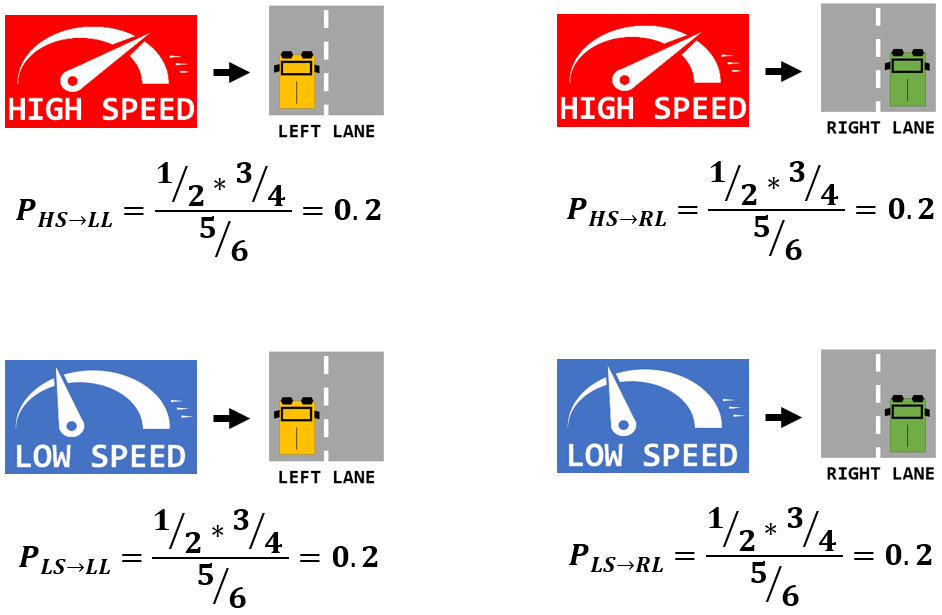
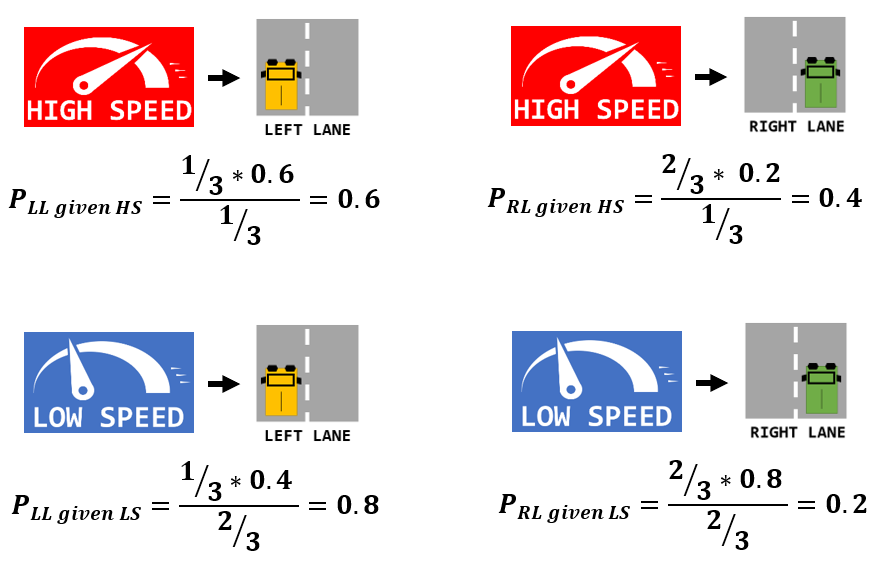
docs - start describing the problem

diff --git a/README.md b/README.md
@@ -64,7 +64,7 @@ To keep the problem as simple as possible:
 - Time steps are discretized.
 - Lane transitions are ignored: either you are on `left lane` or you are on `right lane`
 
-A word about the Markov Property:
+A word about the **Markov Property**:
 - We just said that it is useful to know the present `lane` (at time `t`) to infer the future `lane` (at time `t+1`)
 - What about the previous `lane` at `t-1`? It probably also hold relevant information?
 - Here is a strong assumption about inferring in this stochastic process:
@@ -86,7 +86,7 @@ A word about the Markov Property:
 # Questions:
 - [Q1](#q1) - How to **derive the probability models**?
 - [Q2](#q2) - If you receive a **single observation**, what are the probability for the car to be in each lane?
-- [Q3](#q3) - What is the **most likely lane sequence** if the **sequence of observations** is [`high speed`, `high speed`, `low speed`, `high speed`]?
+- [Q3](#q3) - What is the **most likely `lane` sequence** if the **sequence of observations** is [`high speed`, `high speed`, `low speed`, `high speed`]?
 - [Q4](#q4) - What if you are **not directly given the probability models**?
 
 # Answers
@@ -102,10 +102,10 @@ The idea is to **approximate the model parameters by counting the occurrences**.
 ### Transition probability
 
 **Counting the number** of transitions gives a likelihoods we can used for our **transition probability** model.
-- For instance, we made 15 transitions starting from `right lane` and among them 2 ended in `left lane`.
-	- Hence the P[`right lane` -> `left lane`] = 
-- Since probabilities must sum to one (normalization), or just by counting for the other case (`right lane` is followed 10 times by a `right lane`)
-	- P[`right lane` -> `right lane`] = 
+- For instance, among the `15` transitions starting from `right lane`, `3` ended in `left lane`.
+	- Hence P[`right lane` -> `left lane`] = `0.2`
+- Since probabilities must sum to one (normalization), or just by counting for the other case (`right lane` is followed `12` times by a `right lane`)
+	- Hence P[`right lane` -> `right lane`] = `0.8`
 
 | ![Derivation of the transition probability model](docs/deriving_transition_model.PNG "Derivation of the transition probability model")  | 
 |:--:| 
@@ -123,20 +123,20 @@ Counting can also be used to determine the **emission probability** model.
 
 ## Prior probability
 
-At any time `t`, what is your guess on the distribution of the hidden state if no information is given?
-- Nothing about previous state and nothing about the observation)
+At any time `t`, what is your guess on the **distribution of the hidden state if no observation is given**?
+- Two options are available:
+	- Either you use the transition model (1) and the fact that probabilities sum to `1` (2):
+		- (1) P[`left lane`, `t`] = P[`left lane` -> `left lane`] `*` P[`left lane`, `t-1`] + P[`right lane` -> `left lane`] `*` P[`right lane`, `t-1`]
+		- (2) P[`right lane`, `t`] = `1` - P[`left lane`, `t`]
+	- Either you simply **count occurrences** in the supplied data:
+		- P[`left lane`, `t`] = `1/3`
+		- P[`right lane`, `t`] = `2/3`
 
-Two options are available:
-- Either you count occurrences
-- Or you use the transition model and the fact that probabilities sum to `1`:
-	- ```p[`left lane`, t] = 0.8 * p[`left lane`, t-1] + 0.2 * p[`right lane`, t-1]```
-	- ```p[`right lane`, t] = 1 - p[`left lane`, t]```
-	
 ### Summary
 
-| ![Hidden Markov Model with the `prior probability` model (up), `transition probability` model (middle), and the `transition probability` model (below)](docs/hmm.PNG "Hidden Markov Model with the `prior probability` model (up), `transition probability` model (middle), and the `transition probability` model (below)")  | 
+| ![Hidden Markov Model with the `prior probability` model (up), `transition probability` model (middle), and the `emission probability` model (below)](docs/hmm.PNG "Hidden Markov Model with the `prior probability` model (up), `transition probability` model (middle), and the `emission probability` model (below)")  | 
 |:--:| 
-| *Hidden Markov Model with the `prior probability` model (up), `transition probability` model (middle), and the `transition probability` model (below)* |
+| *Hidden Markov Model with the `prior probability` model (up), `transition probability` model (middle), and the `emission probability` model (below)* |
 
 ## Q2 - If you receive a single observation, what are the probability for the car to be in each lane?
 
@@ -150,8 +150,10 @@ Before any observation we know that `right lane` appears `2/3` of the time and `
 ### Likelihood
 
 Based on supplied data, we found that on the left lane it is more likely to drive fast. And slow on the right lane.
-- This led to `emission probability`, also understood as `likelihood`: **given a state**, what is the probability for each observation.
-- In the `posterior`, it is the **opposite** that apply: **given an observation**, what is the probability for each state?
+- This led to `emission probability`, also understood as `likelihood`:
+	- **given a state**, what is the probability for each observation.
+- In the `posterior`, it is the **opposite** that apply:
+	- **given an observation**, what is the probability for each state?
 
 ### Marginal
 The Bayes Rule states that `Posterior` = `Normalized (prior * likelihood)`
@@ -161,11 +163,11 @@ The Bayes Rule states that `Posterior` = `Normalized (prior * likelihood)`
 	- P(`high speed`) = P(`high speed` given `left lane`) `*` P(`left lane`) + P(`high speed` given `right lane`) `*` P(`right lane`)
 	- P(`low speed`) = P(`low speed` given `left lane`) `*` P(`left lane`) + P(`low speed` given `right lane`) `*` P(`right lane`)
 - Eventually:
-	- P(`high speed`) = 
-	- P(`low speed`) = 
+	- P(`high speed`) = `1/3`
+	- P(`low speed`) = `2/3`
 
 ### Bayes Rule
-Let's use Bayesian Statistics to recap:
+- Let's use Bayesian Statistics to recap:
 	- P(`lane` given `speed`) = P(`lane`) `*` P(`speed` given `lane`) / P(`speed`)
 	- `Posterior` = `Prior` `*` `Likelihood` / `Marginal`
 - For instance
@@ -176,14 +178,20 @@ Priors:
 - P(`left lane`) = `1/3`
 
 Marginals:
-- P(`high speed`) = `2/3`
-- P(`low speed`) = `1/3`
+- P(`high speed`) = `1/3`
+- P(`low speed`) = `2/3`
 
 Likelihoods:
-- P(`high speed` given `left lane`) = `2/3`
-- P(`high speed` given `right lane`) = `2/3`
-- P(`low speed` given `left lane`) = `2/3`
-- P(`low speed` given `right lane`) = `2/3`
+- P(`high speed` given `left lane`) = `0.6`
+- P(`low speed` given `left lane`) = `0.4`
+- P(`high speed` given `right lane`) = `0.2`
+- P(`low speed` given `right lane`) = `0.8`
+
+Posteriors:
+- P(`left lane` given `high speed`) = `1/3` `*` `0.6` / `1/3` = `0.6`
+- P(`left lane` given `low speed`) = `1/3` `*` `0.4` / `2/3` = `0.2`
+- P(`right lane` given `high speed`) = `2/3` `*` `0.2` / `1/3` = `0.4`
+- P(`right lane` given `low speed`) = `2/3` `*` `0.8` / `2/3` = `0.8`
 
 ### Summary
 
@@ -199,21 +207,21 @@ It is close to our intuition.
 |:--:| 
 | *Derivation of the posterior probabilities for a single observation* |
 
-## Q3 - What is the most likely lane sequence if the sequence of observations is [`high speed`, `high speed`, `low speed`, `high speed`]?
+## Q3 - What is the most likely `lane` sequence if the sequence of observations is [`high speed`, `high speed`, `low speed`, `high speed`]?
 
-The previous observation had `size=1`
-- For each observation we have computed the two posterior probabilities and **select the maximum one**.
+The previous sequence of `observation` had `size=1`
+- For each observation we have computed the two posterior probabilities and then **select the maximum one**.
 - A **similar approach** can be used for larger sequences of observation.
 
 But an issue appears:
 
-| Size of the `observation` sequence | number of terms to compute before applying `max` |
+| Size of the `observation` sequence | Number of posteriors to compute before applying `max()` |
 | :---:        |     :---:      |
-| 1   | 4     |
-| 2     | 8       |
-| 3     | 16       |
-| ...     | ...       |
-| 10     | 1600       |
+| `1`   | `4`     |
+| `2`   | `8`     |
+| `3`   | `16`     |
+| `i`     | `2*2^i`       |
+| `10`     | `2048`       |
 
 ### Dynamic Programming
 
